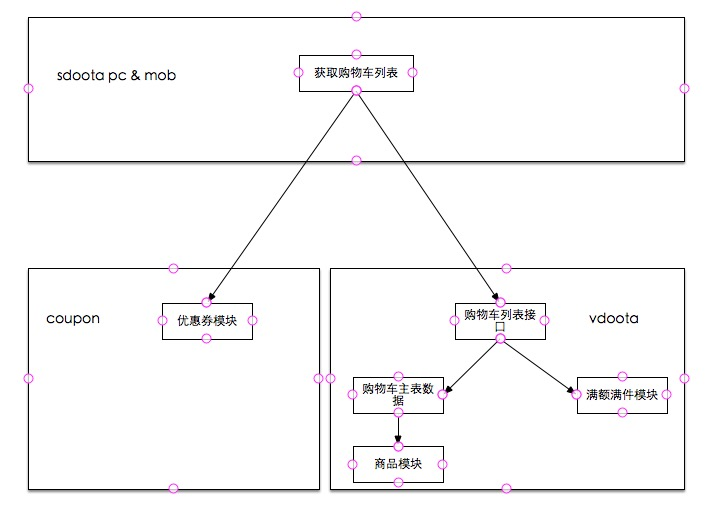
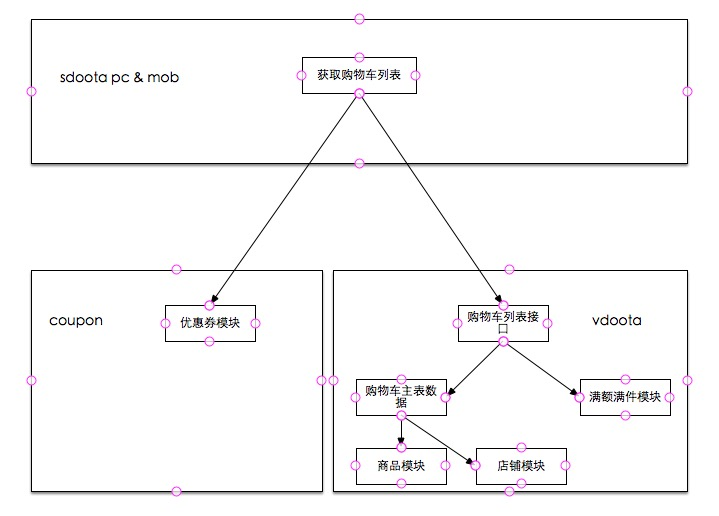
opt

diff --git a/购物车.md b/购物车.md
@@ -8,12 +8,19 @@
 
 ### 1,依赖
 - **同商品的依赖关系**：购物车列表和商品的依赖是最紧密的，以至于在购物车的数据读取类里面直接嵌入了商品数据读取的代码。根据sku_id向商品模块读取sku的详细信息，包括价格，商品名称，库存等。
+
 - **同满额满件的依赖关系**：加载完购物车的主信息（包括商品信息）后，会根据shop_id获取商家设置的满额满件的数据。
+
 - **同优惠券的依赖关系**：根据用户id和购物车商品所属店铺id获取商家所设置的店铺优惠券数据。
+
+- **同店铺的依赖关系**：根据shop_id获取店铺的详细数据。
 
 ### 2,被依赖
 - **同下单的依赖关系**：购物车下单时会用到购物车的数据，购物车主表里面的每一条记录（以sid为主键的一条记录）表示一个sku，在订单确认页面或提交订单都会根据sid来获取商品的价格，库存，上下架等数据（实际上，会根据sid再去商品系统取一下数据）。下单完成后，系统会删除掉使用到的sid记录。
 
+- **同登录的依赖关系**：用户登录时，会向购物车模块发送合并购物车请求。在登录请求的finally阶段，不会影响登录流程的进行。
+
+- **同统计的依赖关系**：加车时，前端会传过来一个参数:pid，记录的是用户加车之前的动作，BI会异步读取分析数据来分析用户行为。
 
 ## 3,当前模块层次关系
 
@@ -50,6 +57,10 @@
 - **订单确认**：购物车在订单确认所起的作用就是读取商品数据。
 
 - **下单**：购物车在订单所起的作用除了读取商品数据外，在下单成功后还需要删除所对应的记录。
+
+- **脚本推荐**：
+
+- **购物车合并**：用户未登录状态下向购物车加入的商品存放在cart.t_bat_shopcart_offline，用户登录后会把这个表里的数据同步到线上表cart.t_bat_shopcart。逻辑是遍历线下购物车，如有和线上sku数据相同的商品，则完全覆盖（sku数量以线下购物车数量为准）。合并完成后，删除线下数据库表的数据。
 
 ## 5,产品现状和规划(todo)
 
